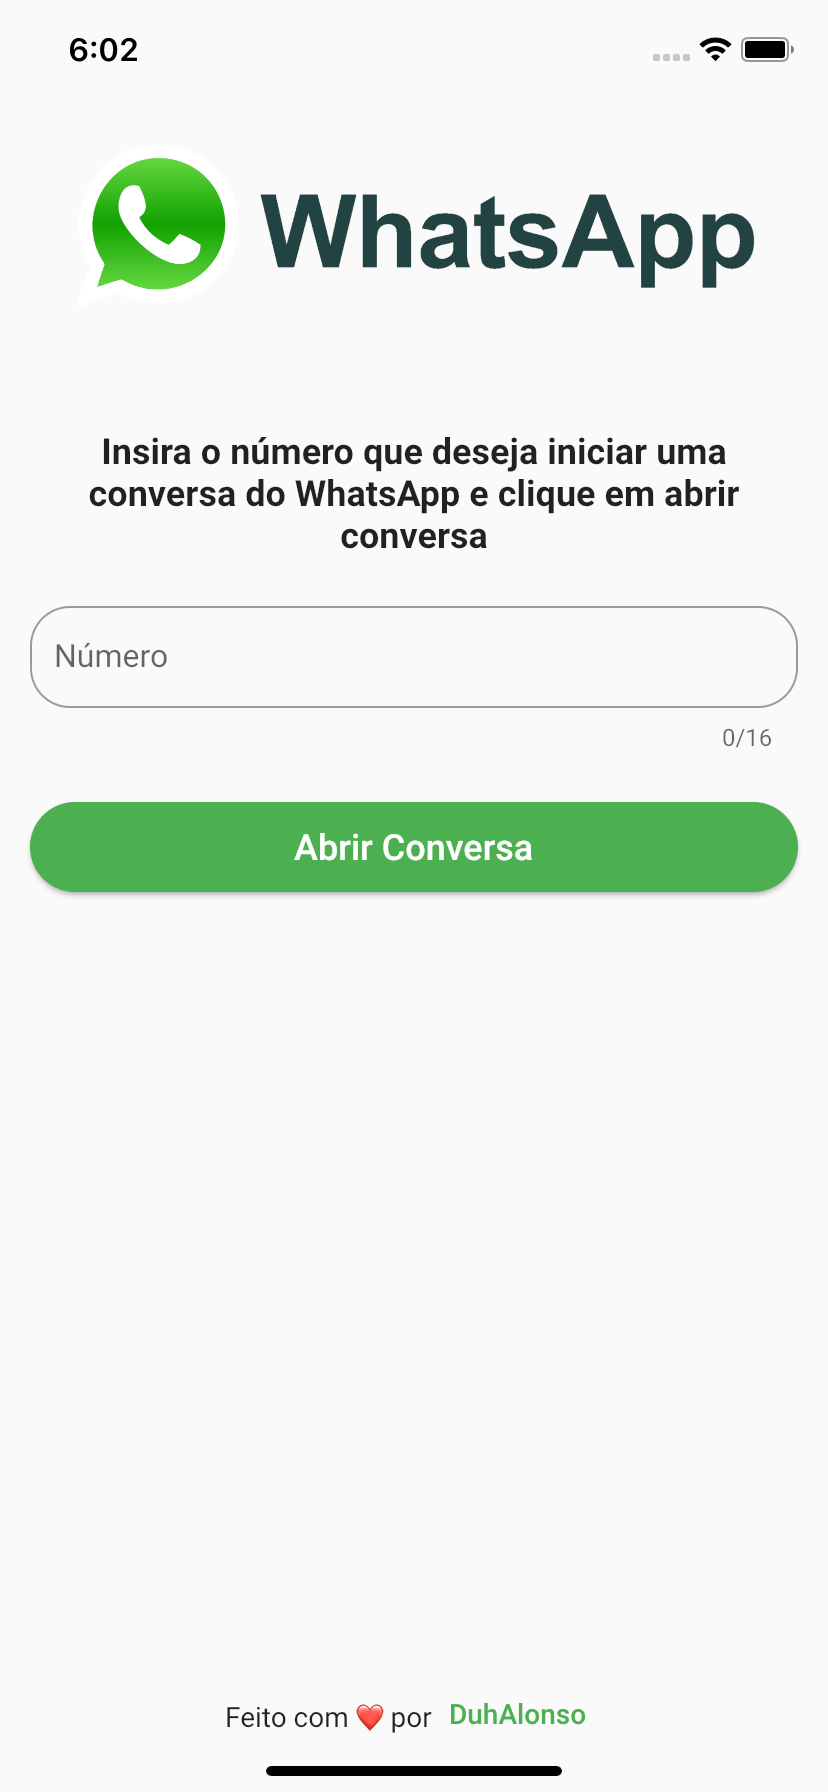
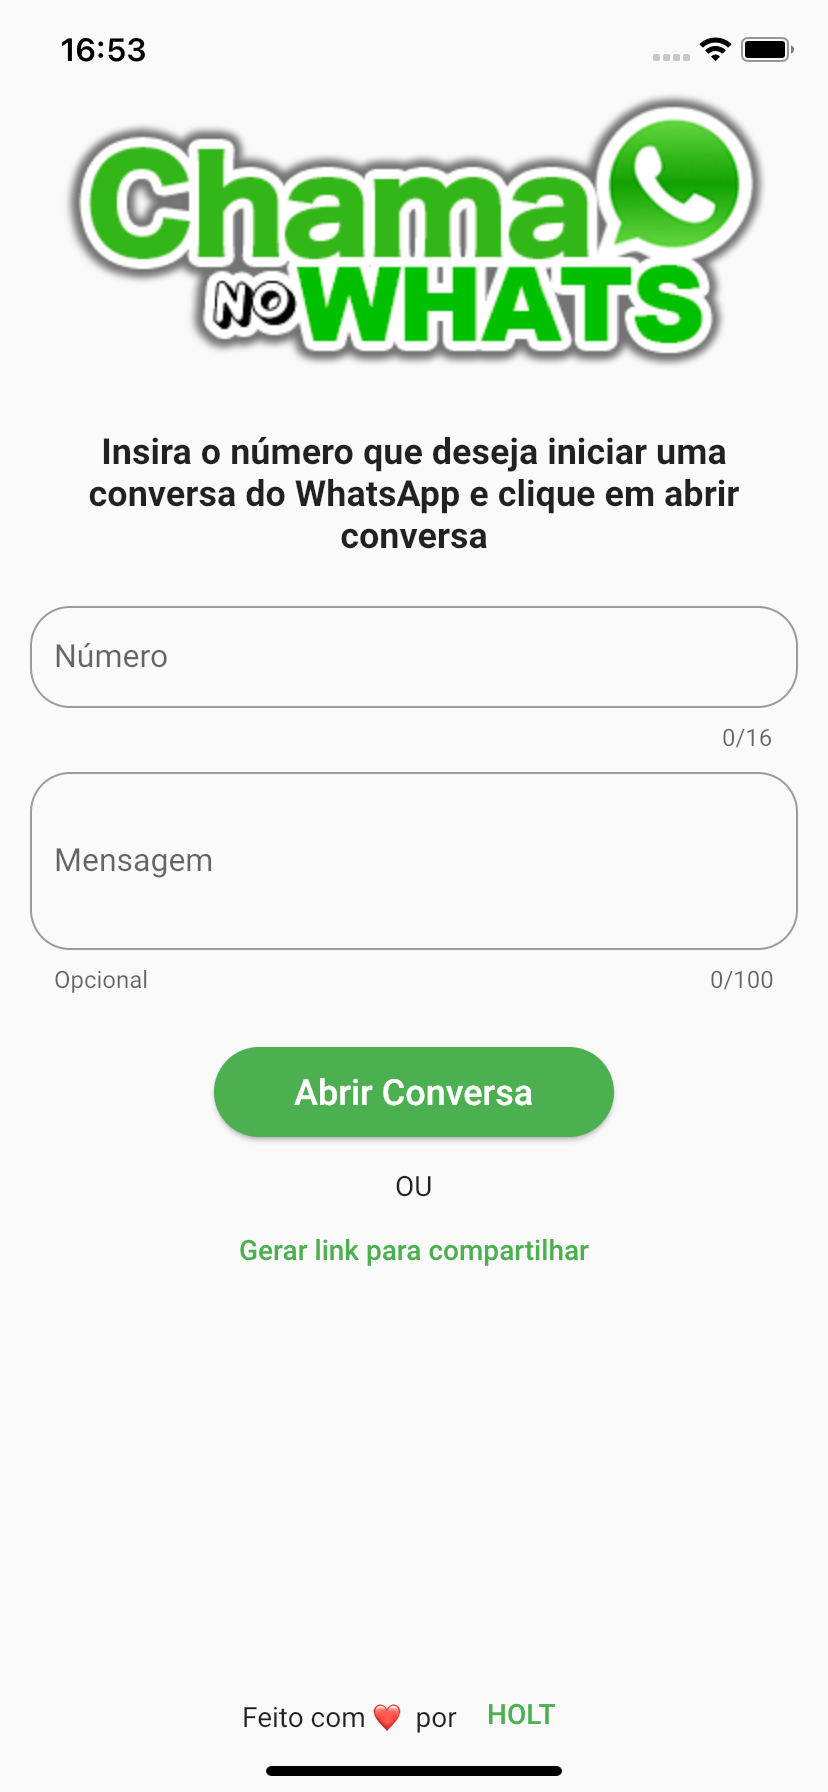
finshed

diff --git a/lib/src/pages/chama_no_whats/chama_page.dart b/lib/src/pages/chama_no_whats/chama_page.dart
@@ -1,4 +1,5 @@
 import 'package:flutter/material.dart';
+import 'package:flutter/services.dart';
 import 'package:flutter_mobx/flutter_mobx.dart';
 import 'package:mask_text_input_formatter/mask_text_input_formatter.dart';
 import 'package:url_launcher/url_launcher.dart';
@@ -143,7 +144,16 @@ class _HomePageState extends State<HomePage> {
                         padding: const EdgeInsets.symmetric(vertical: 10),
                         child: Observer(
                           builder: (_) {
-                            return Text(_controller.urlShortener);
+                            return Visibility(
+                              visible: _controller.generateLink,
+                              child: Tooltip(
+                                message: 'Link Copiado!',
+                                child: SelectableText(
+                                  _controller.urlShortener,
+                                  style: const TextStyle(color: Colors.green),
+                                ),
+                              ),
+                            );
                           },
                         ),
                       ),
@@ -183,18 +193,18 @@ class _HomePageState extends State<HomePage> {
       }
 
       final number = formatNumber(number: _numberEC.text);
+      final url = 'https://wa.me/55$number?text=${_messageEC.text}';
       if (!_controller.generateLink) {
         await launch(
-          'https://wa.me/55$number?text=${_messageEC.text}',
+          url,
           forceSafariVC: true,
           forceWebView: true,
           headers: <String, String>{'target': '_self'},
         );
       }
-      print(_controller
-          .getShortener('https://wa.me/55$number?text=${_messageEC.text}'));
-      _controller
-          .getShortener('https://wa.me/55$number?text=${_messageEC.text}');
+
+      final urlShortener = await _controller.getShortener(url);
+      Clipboard.setData(ClipboardData(text: urlShortener));
     }
   }
 }

diff --git a/lib/src/repository/shortener_repository_impl.dart b/lib/src/repository/shortener_repository_impl.dart
@@ -1,5 +1,6 @@
 import 'dart:convert';
 import 'dart:io';
+import 'package:whats_link/src/core/token_api.dart';
 
 import 'package:http/http.dart' as http;
 
@@ -8,19 +9,19 @@ import 'package:whats_link/src/repository/shortener_repository.dart';
 class ShortenerRepositoryImpl implements ShortenerRepository {
   @override
   Future<String> generateShortener(String url) async {
-    final body = jsonEncode(<String, String>{'url': url});
+    final body = jsonEncode(<String, String>{'long_url': url});
     try {
       var response = await http.post(
-        Uri.parse('https://api.encurtador.dev/encurtamentos'),
+        Uri.parse('https://api-ssl.bitly.com/v4/shorten'),
         body: body,
         headers: <String, String>{
           'Content-Type': 'application/json; charset=UTF-8',
+          'Authorization': 'Bearer $API_TOKEN'
         },
       );
-      print(response.body);
       if (response.statusCode == 200) {
         final data = jsonDecode(response.body);
-        final url = data['urlEncurtada'];
+        final url = data['link'];
         return url;
       }
     } on SocketException {

diff --git a/lib/src/pages/chama_no_whats/chama_controller.g.dart b/lib/src/pages/chama_no_whats/chama_controller.g.dart
@@ -41,18 +41,12 @@ mixin _$ChamaController on ChamaControllerBase, Store {
     });
   }
 
-  late final _$ChamaControllerBaseActionController =
-      ActionController(name: 'ChamaControllerBase', context: context);
+  late final _$getShortenerAsyncAction =
+      AsyncAction('ChamaControllerBase.getShortener', context: context);
 
   @override
-  Future<dynamic> getShortener(String url) {
-    final _$actionInfo = _$ChamaControllerBaseActionController.startAction(
-        name: 'ChamaControllerBase.getShortener');
-    try {
-      return super.getShortener(url);
-    } finally {
-      _$ChamaControllerBaseActionController.endAction(_$actionInfo);
-    }
+  Future<String> getShortener(String url) {
+    return _$getShortenerAsyncAction.run(() => super.getShortener(url));
   }
 
   @override

diff --git a/lib/src/pages/chama_no_whats/chama_controller.dart b/lib/src/pages/chama_no_whats/chama_controller.dart
@@ -14,8 +14,10 @@ abstract class ChamaControllerBase with Store {
   bool generateLink = false;
 
   @action
-  Future getShortener(String url) {
-    final urlShortener = _respository.generateShortener(url);
-    return urlShortener;
+  Future<String> getShortener(String url) async {
+    final urlS = await _respository.generateShortener(url);
+
+    urlShortener = urlS;
+    return urlS;
   }
 }

diff --git a/README.md b/README.md
@@ -8,19 +8,24 @@ App feito para abrir conversa do WhtasApp sem salvar o número do destinatário.
 
 :iphone: Digita o número.  
 :iphone: Validação do número digitado.  
+:iphone: Opcional adicionar uma mensagem.  
 :iphone: Abre o WhatsApp direto na conversa.  
+:iphone: Gera link curto para compartilhar.  
 
 ## Teste o app
 
-🖥 [link do app hospedado](https://whatsapp-link.duhalonso.com/)
+🖥 [link do app hospedado](https://chama.holt.dev.br/)
 
 ## Screenshots
 
-<img src="https://github.com/DuhAlonso/whats-link/blob/main/screenshot/Screen1.png" width="250"> <img src="https://github.com/DuhAlonso/whats-link/blob/main/screenshot/Screen2.png" width="250">
+<img src="https://github.com/DuhAlonso/whats-link/blob/main/screenshot/Screen1.png" width="250"> <img src="https://github.com/DuhAlonso/whats-link/blob/main/screenshot/Screen2.png" width="250"> <img src="https://github.com/DuhAlonso/whats-link/blob/main/screenshot/Screen3.png" width="250">
+<img src="https://github.com/DuhAlonso/whats-link/blob/main/screenshot/web_screenshot.png" width="500">
 
 ### No Futuro
 - [ ] Novas funcionalidades
-- [ ] Novo Design
+  - [X] Gerar link curto
+  - [X] Adicionar mensagem
+- [X] Novo Design
 
 </br>
 </br>
